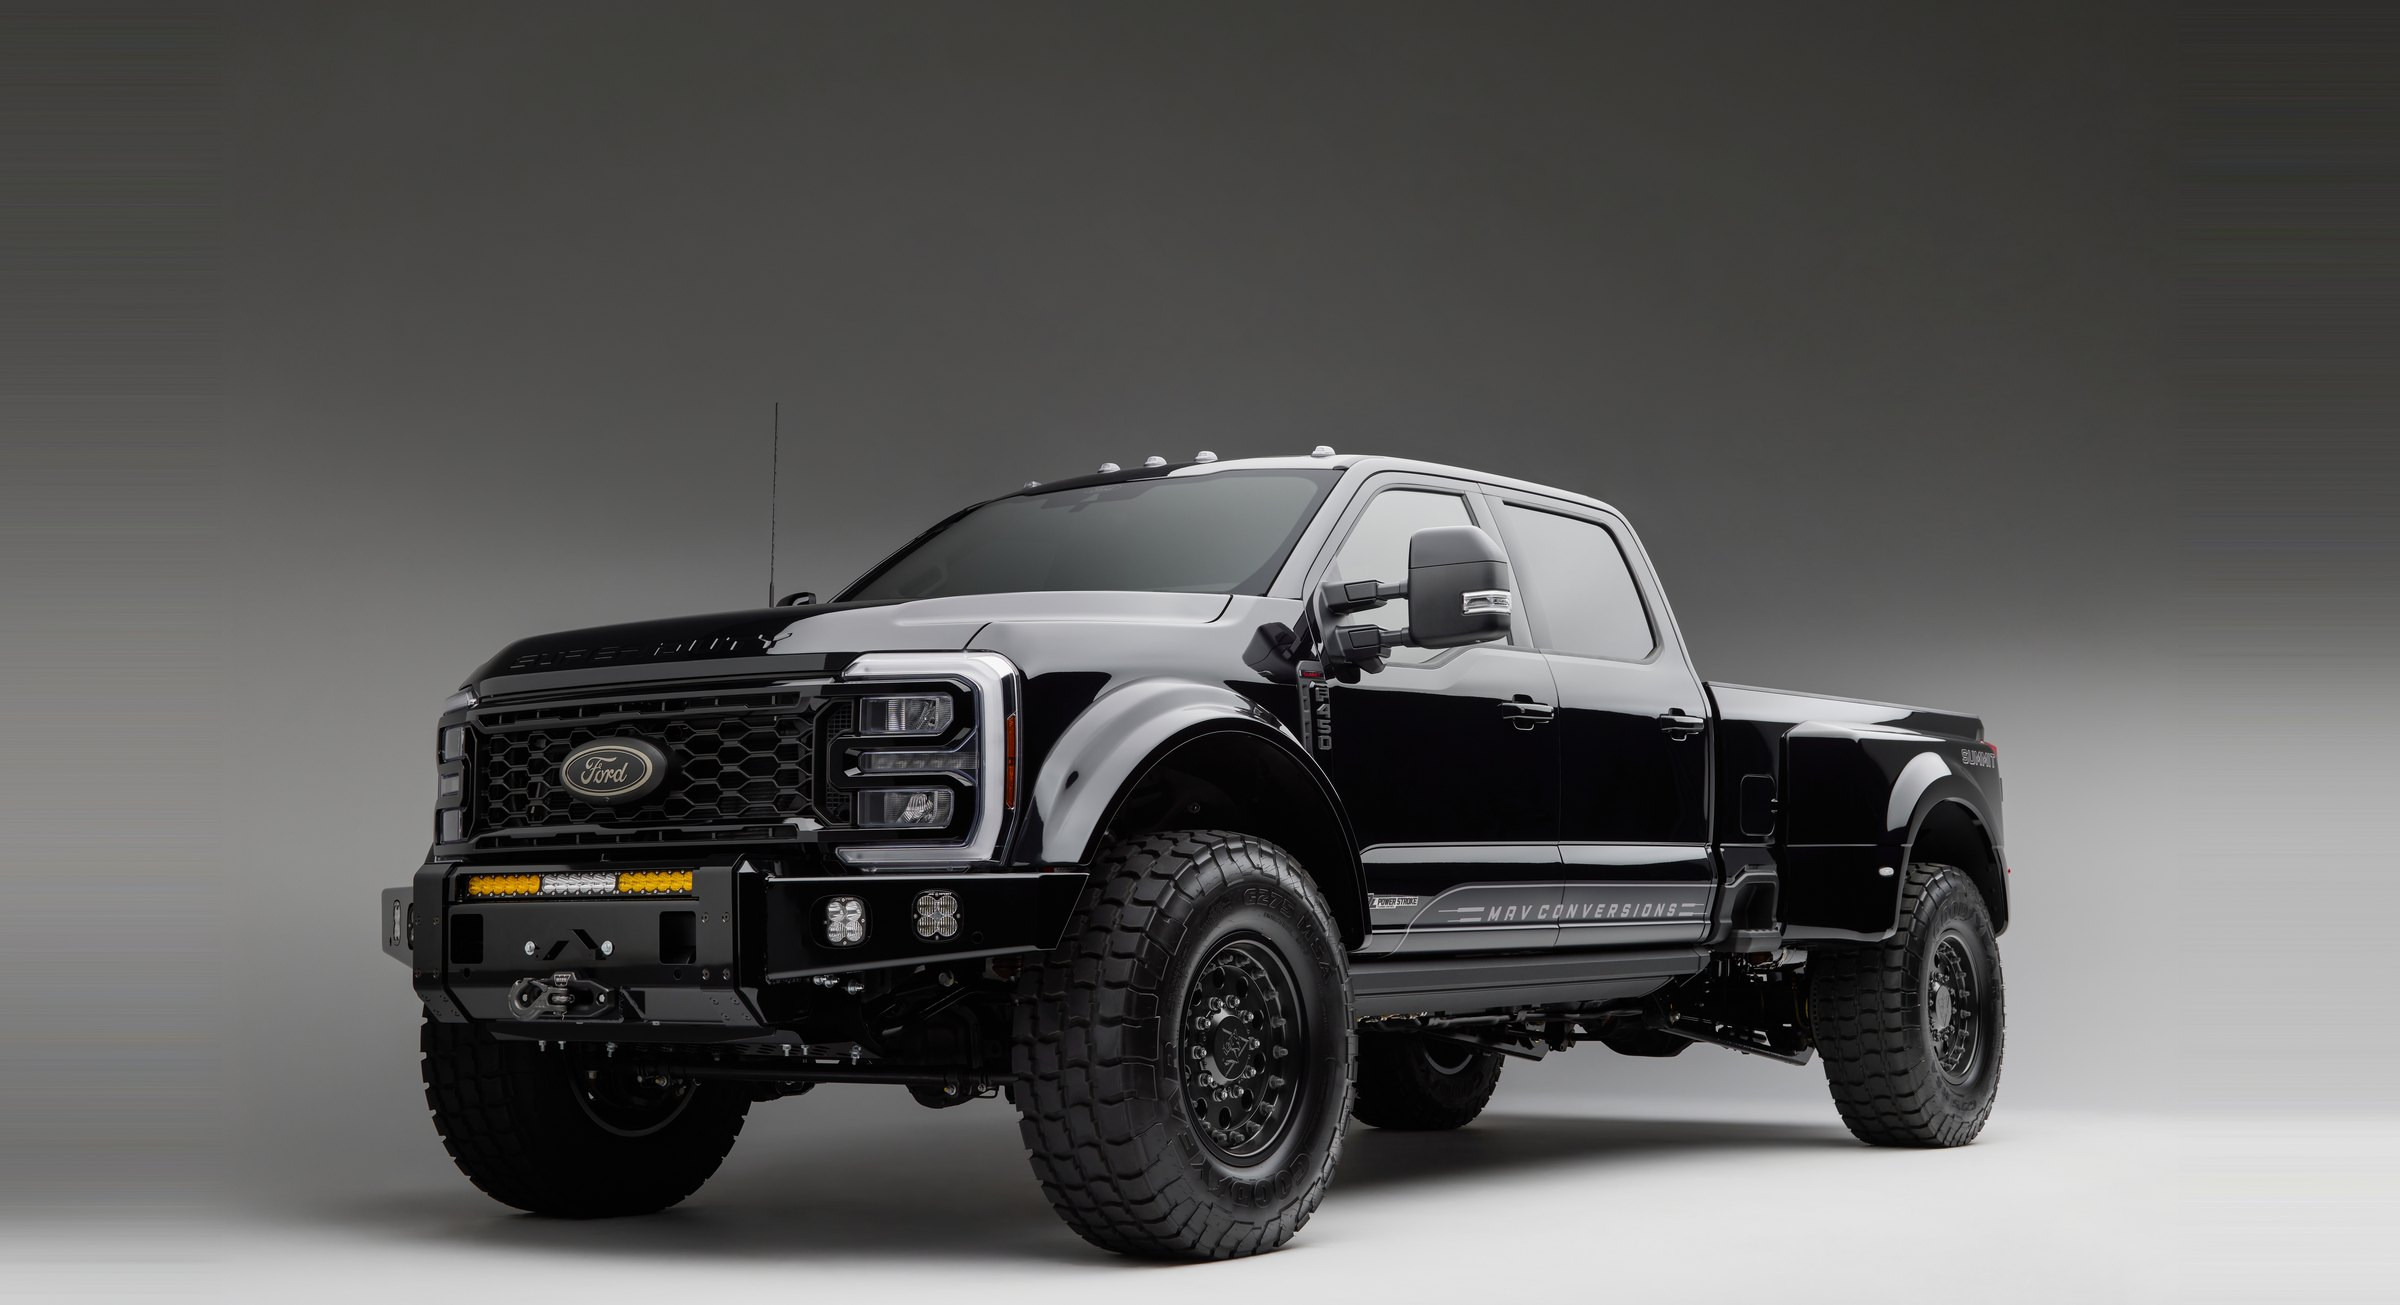
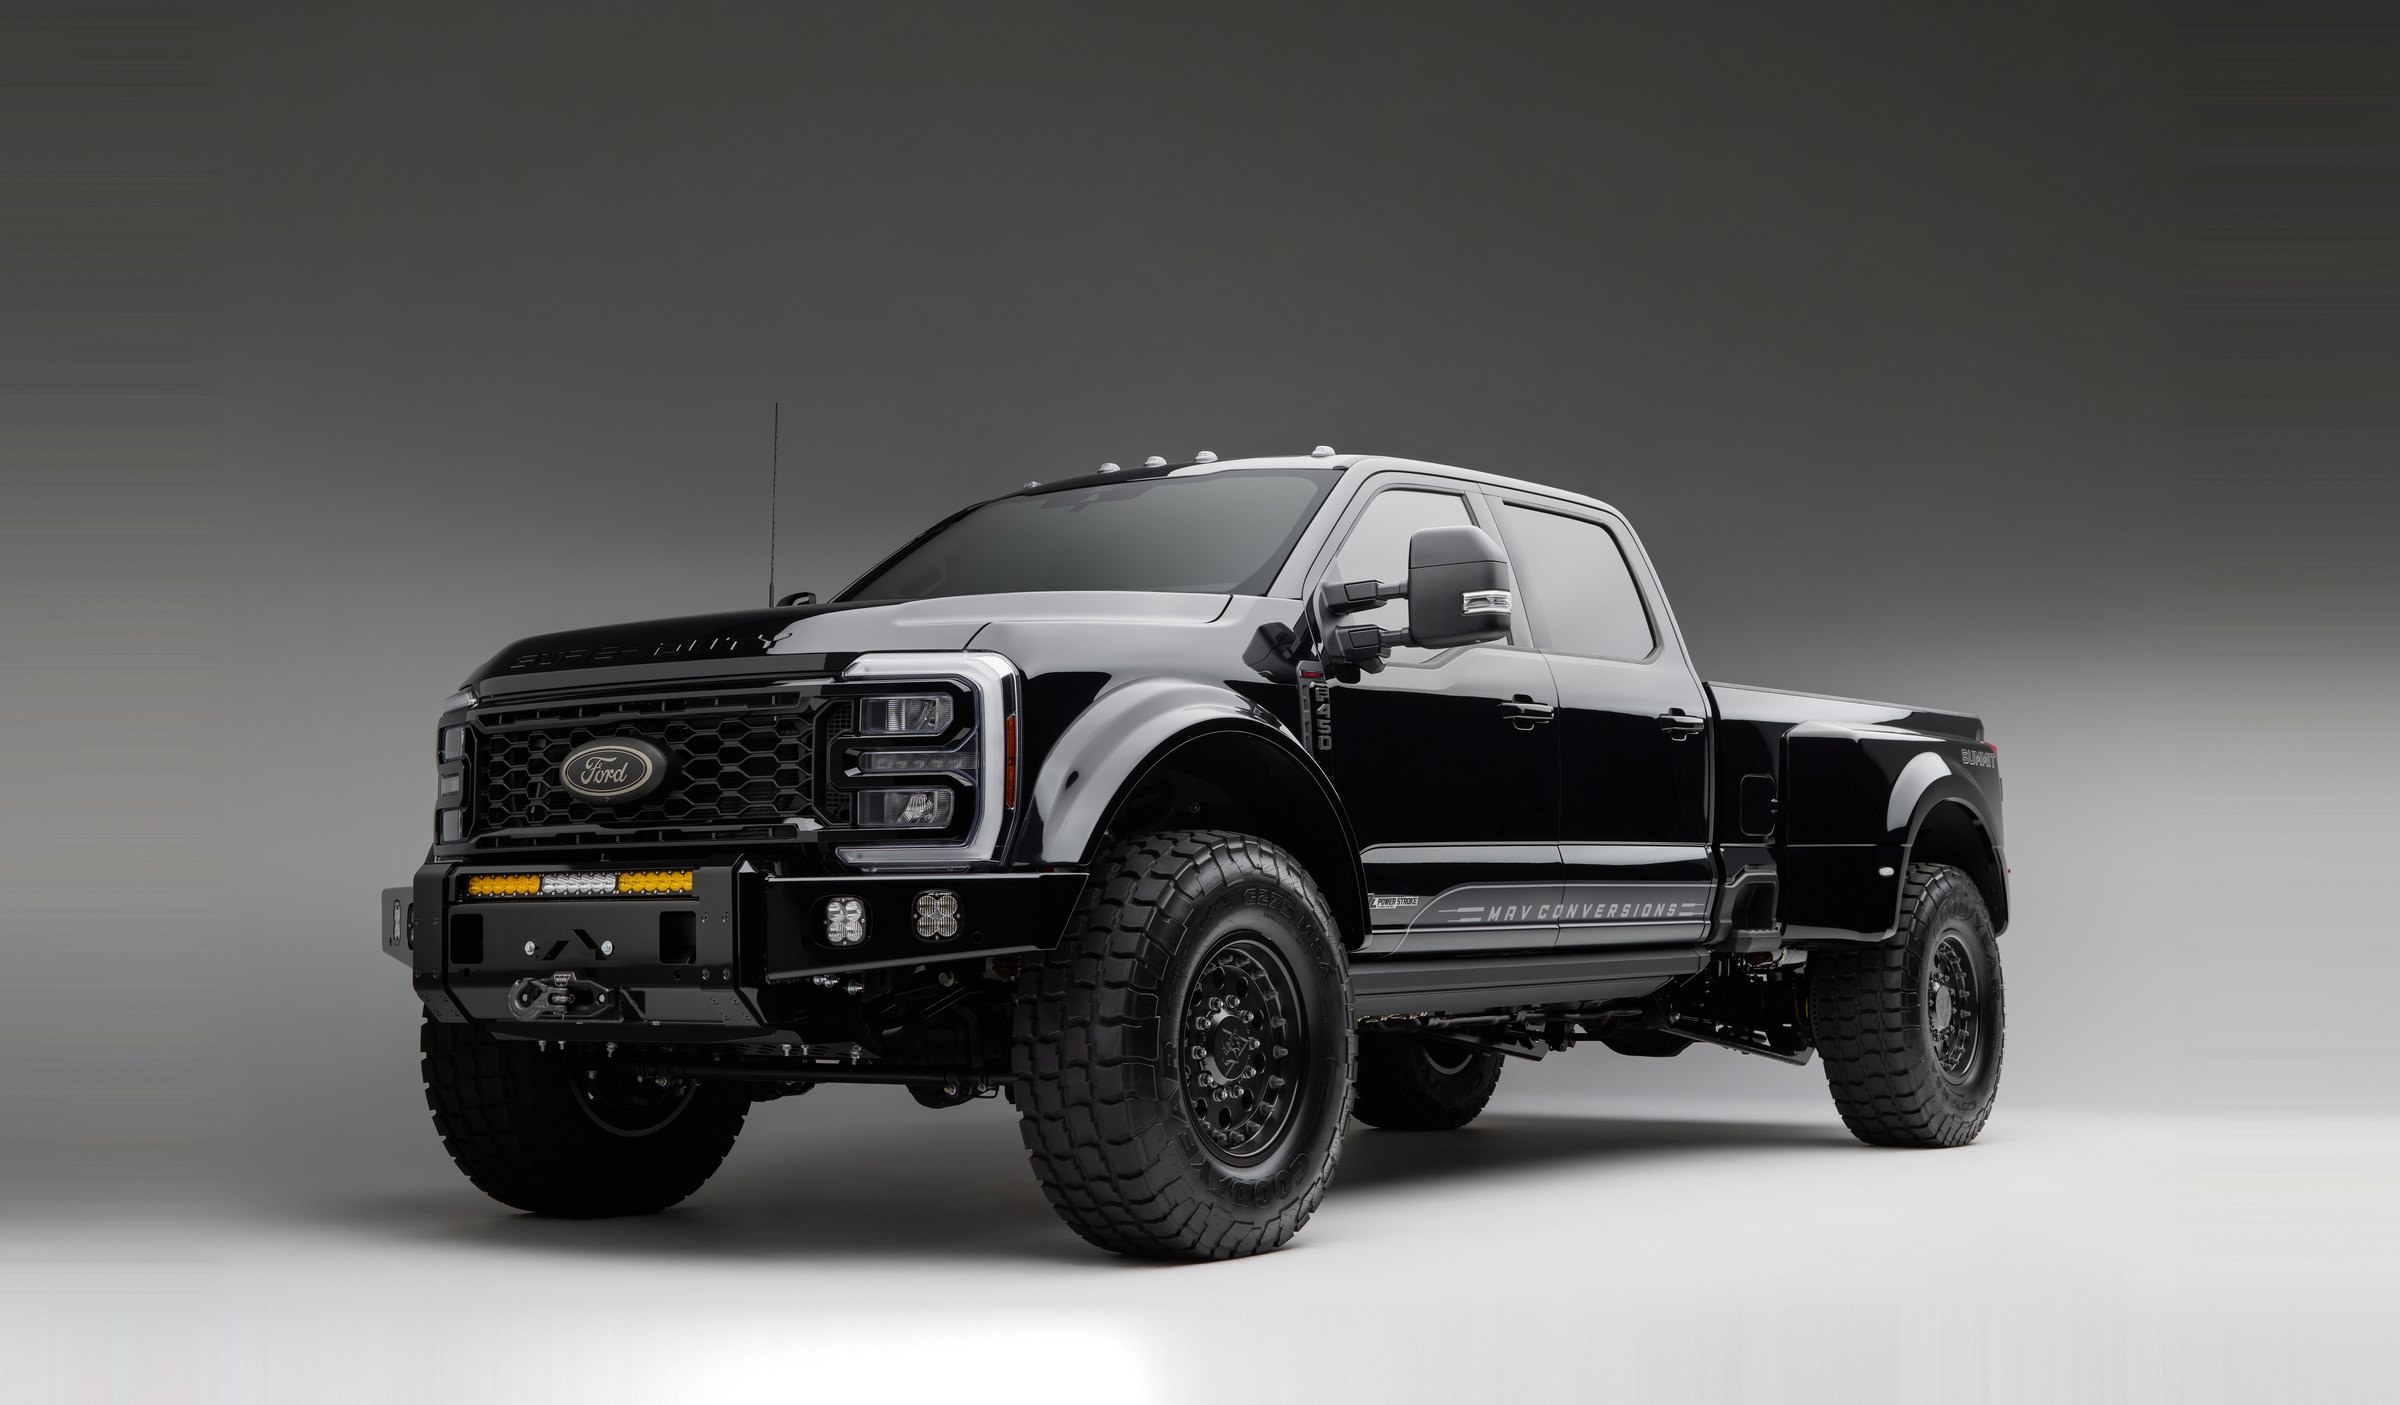
Sit all four hero trucks at the same height
The rotation had the trucks at four different distances off the bottom edge
-- 11.3%, 3.1%, 11.2% and 3.3% of the hero's height -- so a truck appeared to
drop as the frame changed.

--py could not fix the two three-quarter views on its own. object-position
only moves the window around inside the photograph, and hero-1 holds 39px of
floor below its tires while hero-3 holds 78px, against the ~140px the framing
needs. Their studio sweep is extended downward to make up the difference,
each column continued on its own trend, fitted only on rows below the tires
and anchored on the real bottom row.

Both of those mattered: a fit window that reached up into the tires produced
a join seventeen times the normal row-to-row step, and anchoring on the
fitted line rather than the actual last row left a visible horizontal seam.
The join now steps 1.35 against 0.57 either side of it.

All four frames sit at ~11.2%. Cache versions bumped since the two images
changed in place. The originals are in this repo's history at c5acb5e.

Changed region(s): [[0.0, 0.3065, 1.0, 1.0]]

diff --git a/index.html b/index.html
@@ -167,18 +167,18 @@ src="https://www.facebook.com/tr?id=1863578501471272&ev=PageView&noscript=1" alt
     <img class="is-on" src="media/hero-4.jpg?v=1" style="--py:100%"
          alt="A white MAV Apex Ford F-450, with a person standing beside it showing its height"
          fetchpriority="high">
-    <img src="media/hero-1.jpg?v=2" style="--py:98%"
+    <img src="media/hero-1.jpg?v=3" style="--py:100%"
          alt="A MAV-converted Ford F-450" loading="lazy">
-    <!-- 93% rather than 77%: this and hero-4 are the two side elevations, so
-         they sit next to each other in the eye and any difference in how much
-         floor shows under the tires reads as one truck sagging. 93 puts this
-         truck's gap at 11.4% of the hero's height, the same as hero-4's, and
-         it holds within half a point from a laptop up to a wide desktop.
-         hero-1 and hero-3 are three-quarter views and are left alone -- the
-         same measurement does not mean the same thing in perspective. -->
+    <!-- All four frames show the same amount of floor under the tires (about
+         11% of the hero's height), so no truck appears to sag as the rotation
+         moves. --py does the work here; hero-1 and hero-3 held only 39px and
+         78px of floor between the tires and the photo's bottom edge, far less
+         than the ~140px needed, so their sweep was extended downward before
+         they could be framed this way. Re-cropping either photo is what to
+         undo if that floor ever looks wrong. -->
     <img src="media/hero-2.jpg?v=1" style="--py:93%"
          alt="A MAV Summit build" loading="lazy">
-    <img src="media/hero-3.jpg?v=1" style="--py:90%"
+    <img src="media/hero-3.jpg?v=2" style="--py:100%"
          alt="A MAV Apex build" loading="lazy">
   </div>
   <!-- Manual controls, so you are never waiting out the timer to see a frame.
